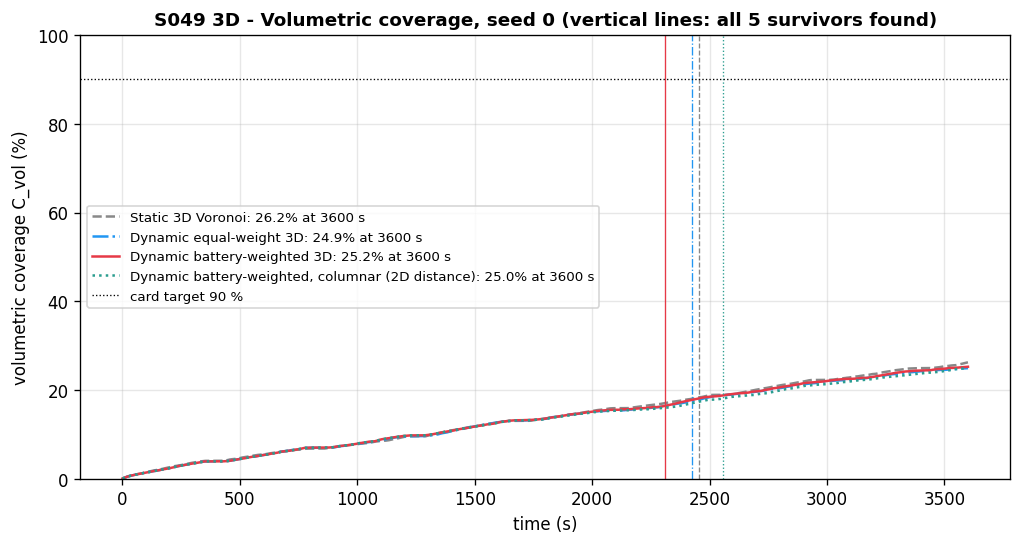
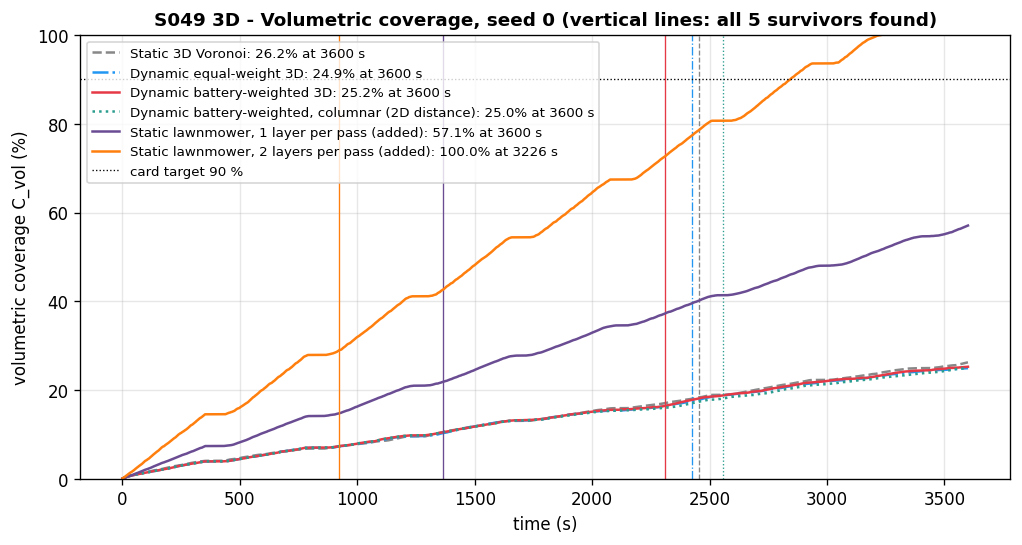
Fix S049 3D Dynamic Zone Assignment: address review follow-ups

diff --git a/src/03_environmental_sar/3d/s049_3d_dynamic_zone.py b/src/03_environmental_sar/3d/s049_3d_dynamic_zone.py
@@ -18,6 +18,10 @@ Strategies (same survivor placements for all):
   weighted        - same with SoC-weighted 3D distance |x - p_k|_3 / SoC_k
   weighted_column - added: SoC-weighted, horizontal distance only (the 2D
                     partition extruded through all layers)
+  lawn / lawn2    - added: static quarters swept by boustrophedon lines 20 m
+                    apart, bottom-up, one pass per layer centre (lawn) or per
+                    layer boundary (lawn2, two layers per pass); separates the
+                    waypoint-rule effect from the vertical schedule
 
 Usage:
     conda activate drones
@@ -70,11 +74,15 @@ PRIOR = [  # alpha, (mu_x, mu_y, mu_z), sigma_xy, sigma_z  (added: card gives on
     (0.1, (200.0, 80.0, 5.0), 30.0, 10.0),
 ]
 HOMES = np.array([[20.0, 20.0, 0.0], [380.0, 20.0, 0.0], [20.0, 380.0, 0.0], [380.0, 380.0, 0.0]])
-STRATEGIES = ['static', 'equal', 'weighted', 'weighted_column']
+STRATEGIES = ['static', 'equal', 'weighted', 'weighted_column', 'lawn', 'lawn2']
+DYNAMIC = ('equal', 'weighted', 'weighted_column')
+LINE_DY = 20.0        # added: lawnmower line spacing (4 voxel rows per line: 20 m swath)
 STYLE = {'static': ('--', '#888888', 'Static 3D Voronoi'),
          'equal': ('-.', '#2196F3', 'Dynamic equal-weight 3D'),
          'weighted': ('-', '#E63946', 'Dynamic battery-weighted 3D'),
-         'weighted_column': (':', '#2a9d8f', 'Dynamic battery-weighted, columnar (2D distance)')}
+         'weighted_column': (':', '#2a9d8f', 'Dynamic battery-weighted, columnar (2D distance)'),
+         'lawn': ('-', '#6a4c93', 'Static lawnmower, 1 layer per pass (added)'),
+         'lawn2': ('-', '#ff7f0e', 'Static lawnmower, 2 layers per pass (added)')}
 DRONE_COLORS = ['#E63946', '#2196F3', '#4CAF50', '#FF9800']
 
 XY = (np.arange(NXY) + 0.5) * DXY
@@ -125,6 +133,7 @@ class Drone:
         self.pack = 0.0; self.soc = 1.0; self.mode = 'search'; self.timer = 0.0
         self.target = None; self.n_swaps = 0; self.dxy = 0.0; self.dz = 0.0
         self.hist = [self.pos.copy()]; self.layer_hist = []
+        self.wps = None; self.wi = 0
 
     @property
     def available(self):
@@ -164,6 +173,32 @@ def choose_target(d, owner, scanned, P):
     return int(cand[np.argmin(dist)])
 
 
+def lawn_waypoints(k, two_layers):
+    """Boustrophedon over drone k's initial quarter, bottom-up passes: lines along x every
+    20 m (y = 10, 30, ... inside the quarter: 4 voxel rows per line). One pass per layer centre
+    (z = 2.5, 7.5, ...) or, with two_layers, one pass per layer boundary (z = 5, 15, ..., 55),
+    where the inclusive |dz| <= r_z rule scans both adjacent layers."""
+    xlo = 0.0 if HOMES[k, 0] < AREA / 2 else AREA / 2
+    ylo = 0.0 if HOMES[k, 1] < AREA / 2 else AREA / 2
+    zs = np.arange(5.0, 60.0, 10.0) if two_layers else ZC
+    ys = ylo + LINE_DY / 2 + np.arange(int(AREA / 2 / LINE_DY)) * LINE_DY
+    wps, fwd = [], True
+    for z in zs:
+        for y in ys:
+            xa, xb = (xlo, xlo + AREA / 2) if fwd else (xlo + AREA / 2, xlo)
+            wps += [(xa, y, z), (xb, y, z)]
+            fwd = not fwd
+    return np.array(wps)
+
+
+def sweep_rate(z, y=10.0, length=200.0):
+    """Voxels scanned per metre of a straight line at altitude z (the actual scan rule)."""
+    got = set()
+    for x in np.arange(0.0, length + 1e-9, 0.5):
+        got.update(scan_voxels(np.array([x, y, z])).tolist())
+    return len(got) / length
+
+
 def run_simulation(strategy='weighted', seed=SHOW_SEED, record=True, stop_when_found=True):
     P = build_prior()
     rng = np.random.default_rng(seed)
@@ -193,8 +228,12 @@ def run_simulation(strategy='weighted', seed=SHOW_SEED, record=True, stop_when_f
 
     owner = do_partition(drones, weighted=False)
     n_differs_column = []
+    lawn = strategy in ('lawn', 'lawn2')
     for d in drones:
-        d.target = choose_target(d, owner, scanned, P)
+        if lawn:
+            d.wps = lawn_waypoints(d.k, strategy == 'lawn2'); d.target = 0
+        else:
+            d.target = choose_target(d, owner, scanned, P)
     events_log, reparts, snaps = [], [], [(0.0, owner.copy(), scanned.copy())]
     t_log, cov_log, fair_log, frames = [], [], [], []
     t, step = 0.0, 0
@@ -205,13 +244,22 @@ def run_simulation(strategy='weighted', seed=SHOW_SEED, record=True, stop_when_f
         for d in drones:
             if d.mode == 'search':
                 if d.soc < SOC_THRESH:
+                    if lawn:   # resume the interrupted line where it was left
+                        d.wps = np.insert(d.wps, d.wi, d.pos.copy(), axis=0)
                     d.mode = 'return'; d.target = None; events.append(('battery', d.k))
+                elif lawn:
+                    if d.wi >= len(d.wps):
+                        d.mode = 'idle'; events.append(('zone_done', d.k))
                 elif d.target is None or scanned[d.target]:
                     d.target = choose_target(d, owner, scanned, P)
                     if d.target is None:
                         d.mode = 'idle'; events.append(('zone_done', d.k))
                 if d.mode == 'search':
-                    d.fly_to(VOX[d.target])
+                    if lawn:
+                        if d.fly_to(d.wps[d.wi]) <= 1e-9:
+                            d.wi += 1
+                    else:
+                        d.fly_to(VOX[d.target])
                     scanned[scan_voxels(d.pos)] = True
                     for i, s in enumerate(surv):
                         if (det_t[i] is None and np.linalg.norm(d.pos[:2] - s[:2]) <= R_S
@@ -233,12 +281,16 @@ def run_simulation(strategy='weighted', seed=SHOW_SEED, record=True, stop_when_f
                     events.append(('swap_done', d.k))
             assert d.pos[2] >= -1e-9, 'below ground'
             d.hist.append(d.pos.copy())
-            d.layer_hist.append(VOX_K[d.target] if (d.mode == 'search' and d.target is not None) else -1)
+            if lawn:
+                d.layer_hist.append(int(min(d.wps[min(d.wi, len(d.wps) - 1), 2] // DZ, NZ - 1))
+                                    if d.mode == 'search' else -1)
+            else:
+                d.layer_hist.append(VOX_K[d.target] if (d.mode == 'search' and d.target is not None) else -1)
         t += DT; step += 1
         owner[scanned] = -1
         for e in events:
             events_log.append((t, *e))
-        if strategy != 'static' and events and not scanned.all() and any(d.available for d in drones):
+        if strategy in DYNAMIC and events and not scanned.all() and any(d.available for d in drones):
             jb = fairness()
             avail = [d for d in drones if d.available]
             owner = do_partition(avail, weighted=(strategy != 'equal'))
@@ -393,12 +445,13 @@ def plot_layer_gantt(R):
 
 def plot_detection(R, mc):
     fig, axes = plt.subplots(1, 2, figsize=(14, 4.8))
-    x = np.arange(N_SURV); w = 0.2
+    x = np.arange(N_SURV); w = 0.8 / len(STRATEGIES)
     for i, s in enumerate(STRATEGIES):
         r = R[(s, SHOW_SEED)]; ls, c, lab = STYLE[s]
         dt = [v if v is not None else 0 for v in r['det_t']]
-        b = axes[0].bar(x + (i - 1.5) * w, dt, w, color=c, label=lab)
-        for xi, v in zip(x + (i - 1.5) * w, r['det_t']):
+        off = (i - (len(STRATEGIES) - 1) / 2) * w
+        b = axes[0].bar(x + off, dt, w, color=c, label=lab)
+        for xi, v in zip(x + off, r['det_t']):
             if v is None:
                 axes[0].text(xi, 30, 'not found', rotation=90, fontsize=6, ha='center')
     axes[0].set_xticks(x)
@@ -471,10 +524,16 @@ def report(R):
     pz = np.array([P[VOX_K == k].sum() for k in range(NZ)])
     print('\nPrior mass per layer (z = 2.5 ... 57.5 m): ' + ', '.join(f'{100*v:.1f}%' for v in pz))
     one_layer = AREA * AREA / (2 * R_S)
-    print(f'Card-arithmetic check: one layer needs ~{one_layer:.0f} m of sweep at a {2*R_S:.0f} m swath, '
-          f'all {NZ} layers {NZ*one_layer/1000:.0f} km; 4 drones x {SPEED} m/s x {T_MAX:.0f} s = '
-          f'{K_DRONES*SPEED*T_MAX/1000:.1f} km of horizontal flight at most -> C_vol <= '
-          f'{100*K_DRONES*SPEED*T_MAX/(NZ*one_layer):.0f}% (before swaps and climbs)')
+    cap = K_DRONES * SPEED * T_MAX
+    r1, r2 = sweep_rate(Z0), sweep_rate(Z0 + DZ / 2)
+    print(f'Coverage bound from the actual scan rule (straight 200 m line between voxel rows, y = 10 m): '
+          f'{r1:.2f} voxels/m at a layer centre (z = {Z0}), {r2:.2f} voxels/m at a layer boundary '
+          f'(z = {Z0 + DZ/2:.0f}: |dz| <= {R_Z} reaches two layers)')
+    print(f'  flight capacity 4 x {SPEED} m/s x {T_MAX:.0f} s = {cap/1000:.1f} km -> best-case voxels '
+          f'{cap*r1:.0f} (1 layer/pass, C_vol <= {min(100, 100*cap*r1/N_VOX):.0f}%) or {cap*r2:.0f} '
+          f'(2 layers/pass, C_vol <= {min(100, 100*cap*r2/N_VOX):.0f}%) of {N_VOX}; '
+          f'the card arithmetic with a 16 m swath, one layer at a time, gives {100*cap/(NZ*one_layer):.0f}% '
+          f'(swaps, transits and climbs not deducted in any of these)')
     mc = {s: {} for s in STRATEGIES}
     for s in STRATEGIES:
         rs = [R[(s, sd)] for sd in range(N_MC)]
@@ -509,7 +568,8 @@ def report(R):
         worse = np.sum((fa < fb) | ((fa == fb) & (ta > tb)))
         return f'{better}/{worse}/{N_MC - better - worse}'
     print('  per placement better/worse/tie (more survivors found, then earlier last detection):')
-    for a, b in (('equal', 'static'), ('weighted', 'static'), ('weighted', 'equal'),
+    for a, b in (('lawn', 'static'), ('lawn2', 'static'), ('lawn2', 'lawn'),
+                 ('equal', 'static'), ('weighted', 'static'), ('weighted', 'equal'),
                  ('weighted', 'weighted_column')):
         print(f'    {a} vs {b}: {h2h(a, b)}')
     dc = [x for sd in range(N_MC) for x in R[('weighted', sd)]['differs_column']]
@@ -525,7 +585,8 @@ def report(R):
         dts = ', '.join('-' if v is None else f'{v:.1f}' for v in r['det_t'])
         print(f'  {STYLE[s][2]:48s}: detections [{dts}] s | C_vol at {r["t_end"]:.0f} s {100*r["coverage"]:.1f}% | '
               f'reparts {len(r["reparts"])} | swaps {r["n_swaps"]} | d_xy {sum(r["dxy"]):.0f} m, d_z {sum(r["dz"]):.0f} m | '
-              f'mean J_vol {np.nanmean(r["fair_log"]):.3f}')
+              f'mean J_vol {np.nanmean(r["fair_log"]):.3f} | scanned voxel area per metre flown '
+              f'{r["coverage"] * N_VOX * DXY * DXY / sum(r["dxy"]):.2f} m')
         if s == 'weighted' and r['reparts']:
             rp = r['reparts'][0]
             print(f'    first re-partition t = {rp[0]:.1f} s: J {rp[1]:.3f} -> {rp[2]:.3f}, SoC {rp[3]}, z {rp[4]}')

diff --git a/outputs/03_environmental_sar/3d/s049_3d_dynamic_zone/README.md b/outputs/03_environmental_sar/3d/s049_3d_dynamic_zone/README.md
@@ -7,7 +7,7 @@
 
 ## Problem Definition
 
-**Setup**: Four drones search a 400 × 400 × 60 m rubble volume, discretised into 80 × 80 × 12 voxels of 5 m (layer centres z = 2.5 … 57.5 m, 76 800 voxels), for 5 survivors placed at voxel centres sampled from a 3D Gaussian-mixture prior concentrated near the ground. A voxel is scanned — and a survivor detected — when the drone is within 8 m horizontally and 2.5 m vertically. Each drone sweeps its zone **bottom-up, layer by layer**, using the 2D-folder rule inside the current layer (fly to the nearest of the 20 highest-prior unscanned voxels). The battery and mission rules are the 2D ones: SoC $= 1 - (d_{xy} + \gamma d_z)/D_{max}$ per pack; below 30 % the drone flies home (corner pad, ground level), swaps the pack (60 s) and rejoins; a drone that finds a survivor hovers 10 s to confirm and rejoins.
+**Setup**: Four drones search a 400 × 400 × 60 m rubble volume, discretised into 80 × 80 × 12 voxels of 5 m (layer centres z = 2.5 … 57.5 m, 76 800 voxels), for 5 survivors placed at voxel centres sampled from a 3D Gaussian-mixture prior concentrated near the ground. A voxel is scanned — and a survivor detected — when the drone is within 8 m horizontally and 2.5 m vertically. In the card's strategies each drone sweeps its zone **bottom-up, layer by layer**, using the 2D-folder rule inside the current layer (fly to the nearest of the 20 highest-prior unscanned voxels). The battery and mission rules are the 2D ones: SoC $= 1 - (d_{xy} + \gamma d_z)/D_{max}$ per pack; below 30 % the drone flies home (corner pad, ground level), swaps the pack (60 s) and rejoins; a drone that finds a survivor hovers 10 s to confirm and rejoins.
 
 **Strategies** (same 20 survivor placements for all):
 
@@ -17,8 +17,10 @@
 | Dynamic equal-weight 3D | 3D Voronoi on the current 3D positions at every event |
 | Dynamic battery-weighted 3D | $\arg\min_k \|\mathbf{x} - \mathbf{p}_k\|_3 / \text{SoC}_k$ at every event |
 | Dynamic battery-weighted, columnar (added) | same weights, **horizontal** distance only — the 2D partition extruded through all layers |
+| Static lawnmower, 1 layer per pass (added) | initial quarters; **boustrophedon lines** 20 m apart instead of the greedy waypoint rule; one pass per layer centre (z = 2.5, 7.5, …), bottom-up |
+| Static lawnmower, 2 layers per pass (added) | same, one pass per layer **boundary** (z = 5, 15, …, 55), where the inclusive $|\Delta z| \le r_z$ rule scans the two adjacent layers at once |
 
-Events (as in 2D): a drone leaves (battery, survivor), rejoins (swap or confirmation done) or exhausts its zone.
+Events (as in 2D): a drone leaves (battery, survivor), rejoins (swap or confirmation done) or exhausts its zone. The two lawnmower baselines use the same bottom-up vertical schedule, battery, swap and confirmation rules and the same survivor placements (common random numbers), so they separate the effect of the **waypoint rule** from that of the vertical schedule. An interrupted line is resumed where it was left.
 
 ---
 
@@ -32,7 +34,7 @@ Events (as in 2D): a drone leaves (battery, survivor), rejoins (swap or confirma
 
 **Battery**: SoC $= 1 - (d_{xy} + 2 d_z)/3000$ m per pack; hovering drains like cruising (2D rule). Invariants asserted every step: SoC > 0 and z ≥ 0.
 
-**Coverage**: $C_{vol} = |\mathcal{V}_{scanned}|/76\,800$. **Fairness**: $\mathcal{J}_{vol} = (\sum N_k^{rem})^2 / (K'\sum (N_k^{rem})^2)$ over the available drones.
+**Coverage**: $C_{vol} = |\mathcal{V}_{scanned}|/76\,800$. **Coverage bound** (computed in the script from the actual scan rule): a straight line between two voxel rows marks 4 rows (a 20 m swath, cell centres 2.5 and 7.5 m from the line), i.e. 0.83 voxels per metre at a layer centre and 1.66 voxels per metre at a layer boundary. **Fairness**: $\mathcal{J}_{vol} = (\sum N_k^{rem})^2 / (K'\sum (N_k^{rem})^2)$ over the available drones.
 
 ---
 
@@ -51,18 +53,19 @@ Events (as in 2D): a drone leaves (battery, survivor), rejoins (swap or confirma
 | Battery swap / confirmation hover | 60 s / 10 s | 2D values |
 | TOP_M | 20 | 2D value |
 | Placements | 20 (seeds 0–19); seed 0 is run to 3600 s for the figures, the others stop when all 5 are found | 2D value |
+| Lawnmower line spacing | 20 m (lines at y = 10, 30, … m inside each quarter) | added |
 | Animation | 150 frames (every 24 s), 8 fps | |
 
 ### Deviations from the scenario card
 
 | Card | Implementation | Reason |
 |------|----------------|--------|
-| $C_{vol}$ must reach ≥ 90 % within the mission | reaches ≈ 25 %; the card now states the bound | arithmetic: a 5 m layer needs ≈ 10 000 m of sweep at a 16 m swath, 12 layers ≈ 120 km; 4 drones × 6 m/s × 3600 s = 86.4 km of flight at most, so $C_{vol} \le 72$ % even without battery swaps and climbs |
+| $C_{vol}$ must reach ≥ 90 % within the mission | the greedy strategies reach ≈ 25 %, a lawnmower flying at layer boundaries reaches 100 % (seed 0, at 3226 s) | the 90 % target is feasible; the greedy waypoint rule, not the volume, is the limit. An earlier version of this README and of the card called 72 % an upper bound (16 m swath, one layer at a time) — that was wrong for the card's voxel metric: a line between voxel rows marks a 20 m swath, and at a layer boundary it scans two layers, so the flight capacity of 86.4 km allows up to 1.66 × 86 400 = 143 424 voxel scans (> 76 800) |
 | A drone below 30 % SoC or that finds a survivor is removed and its voxels redistributed | it returns home, swaps the pack and rejoins; a finder hovers 10 s and rejoins | the 2D-folder fixes: with permanent retirement the mission is impossible (one pack covers 2 100 m of the ≈ 120 km needed), and with 5 survivors and 4 drones nobody would be left for the last survivor |
 | Re-partition only when a drone leaves | also when a drone rejoins or exhausts its zone | 2D rule: otherwise a returning drone has no zone |
 | Starting area "at the edge" | one pad per drone at the four corners | 2D layout |
 | Prior hotspots and spreads given as ranges | fixed components (table above) | reproducibility |
-| Layer snapshots for every strategy | battery-weighted strategy only | the four strategies' zones look alike (see results); the others are summarised numerically |
+| Layer snapshots for every strategy | battery-weighted strategy only | the dynamic greedy strategies' zones look alike and the lawnmowers keep fixed quarters; the others are summarised numerically |
 | Gantt chart "one row per drone" | layer-vs-time step plot per drone | same information, readable with 12 layers |
 | — | columnar (2D-distance) variant added | to test whether the 3D Voronoi differs from the 2D one |
 | Output path `outputs/03_environmental_sar/s049_3d_dynamic_zone/` | `outputs/03_environmental_sar/3d/s049_3d_dynamic_zone/` | 3D variants live under `3d/` |
@@ -80,7 +83,7 @@ conda activate drones
 python src/03_environmental_sar/3d/s049_3d_dynamic_zone.py
 ```
 
-Runtime ≈ 170 s (80 runs in 10 worker processes; every run seeds its own generator). Two runs printed byte-identical output and produced identical files.
+Runtime ≈ 125 s (120 runs in 10 worker processes; every run seeds its own generator). Two runs printed byte-identical output and produced identical files.
 
 ---
 
@@ -88,39 +91,48 @@ Runtime ≈ 170 s (80 runs in 10 worker processes; every run seeds its own gener
 
 Prior mass per layer (z = 2.5 … 57.5 m): 39.0 %, 29.6 %, 15.1 %, 7.4 %, 4.0 %, 2.3 %, 1.3 %, 0.7 %, 0.4 %, 0.2 %, 0.1 %, 0.0 %. Over the 20 placements the 100 survivors lie at z = 2.5 m (46), 7.5 (21), 12.5 (16), 17.5 (7), 22.5 (5), 27.5 (2), 32.5 (1), 37.5 m (2).
 
-### Monte Carlo, 20 survivor placements
+**Coverage bound from the scan rule** (printed): 0.83 voxels/m on a straight line at a layer centre, 1.66 voxels/m at a layer boundary. With 4 × 6 m/s × 3600 s = 86.4 km of flight this allows 71 712 voxel scans (C_vol ≤ 93 %, one layer per pass) or 143 424 (C_vol ≤ 100 %, two layers per pass) of 76 800, before swaps, transits and climbs. The card's arithmetic (16 m swath, one layer at a time) gives 72 %.
+
+### Monte Carlo, 20 survivor placements (same placements for every strategy)
 
 | Strategy | Survivors found (mean) | All 5 found | Time to all 5 (when found): mean / median | Mean detection time of found survivors | Re-partitions | Battery swaps |
 |---|---|---|---|---|---|---|
-| Static 3D Voronoi | **4.25** | 7/20 | 2306.2 / 2617.0 s | 1002.4 s | 0 | 28.40 |
+| Static 3D Voronoi | 4.25 | 7/20 | 2306.2 / 2617.0 s | 1002.4 s | 0 | 28.40 |
 | Dynamic equal-weight 3D | 4.15 | 7/20 | 2397.0 / 2615.0 s | 960.3 s | 56.3 | 27.80 |
 | Dynamic battery-weighted 3D | 4.15 | 7/20 | 2367.4 / 2443.5 s | 931.1 s | 56.4 | 27.95 |
 | Battery-weighted, columnar | 4.15 | 7/20 | 2278.3 / 2558.5 s | 922.8 s | 55.9 | 27.70 |
+| Static lawnmower, 1 layer per pass | 4.90 | 18/20 | 1836.1 / 1634.2 s | 822.9 s | 0 | 17.65 |
+| Static lawnmower, 2 layers per pass | **5.00** | **20/20** | **1034.5 / 922.0 s** | **480.0 s** | 0 | 8.80 |
 
-Detection rate by survivor layer (all four strategies): 100 % at z = 2.5, 7.5 and 12.5 m; at z = 17.5 m 29 % (static) and 0 % (dynamic); 0 % at z ≥ 22.5 m.
+(Swaps are counted until the run stops; the lawnmower runs stop earlier because they find all five survivors sooner.)
 
-Per placement (better / worse / tie, by survivors found, then by time of the last detection): equal vs static 4/5/11, weighted vs static 5/4/11, weighted vs equal 6/1/13, weighted vs columnar 3/3/14.
+Detection rate by survivor layer: the four greedy strategies find 100 % at z = 2.5, 7.5 and 12.5 m, at z = 17.5 m 29 % (static) or 0 % (dynamic), and 0 % at z ≥ 22.5 m. The 1-layer lawnmower finds 100 % up to z = 32.5 m and 0 % at 37.5 m (2 survivors); the 2-layer lawnmower finds 100 % at every height.
+
+Per placement (better / worse / tie, by survivors found, then by time of the last detection): 1-layer lawnmower vs static greedy 18/0/2, 2-layer lawnmower vs static greedy 20/0/0, 2-layer vs 1-layer lawnmower 20/0/0, equal vs static 4/5/11, weighted vs static 5/4/11, weighted vs equal 6/1/13, weighted vs columnar 3/3/14.
 
 ### Showcase placement (seed 0, run to 3600 s)
 
 Survivors at (317.5, 302.5, 7.5), (282.5, 137.5, 2.5), (72.5, 297.5, 2.5), (42.5, 182.5, 2.5), (332.5, 322.5, 12.5) m.
 
-| Strategy | Detection times S1–S5 | $C_{vol}$ at 3600 s | Re-partitions | Swaps | Horizontal / vertical distance | Mean $\mathcal{J}_{vol}$ |
+| Strategy | Detection times S1–S5 | $C_{vol}$ at end | Swaps | Horizontal / vertical distance | Scanned voxel area per metre flown | Mean $\mathcal{J}_{vol}$ |
 |---|---|---|---|---|---|---|
-| Static | 1327.5, 24.5, 29.5, 468.5, 2457.0 s | 26.2 % | 0 | 32 | 74 396 / 605 m | 1.000 |
-| Equal-weight | 1417.5, 24.5, 29.5, 1043.0, 2426.5 s | 24.9 % | 67 | 31 | 74 634 / 588 m | 0.883 |
-| Battery-weighted | 1445.5, 24.5, 29.5, 1047.5, **2312.0** s | 25.2 % | 68 | 31 | 74 466 / 662 m | 0.885 |
-| Columnar | 1445.5, 24.5, 29.5, 1047.5, 2558.5 s | 25.0 % | 68 | 31 | 74 561 / 692 m | 0.888 |
+| Static | 1327.5, 24.5, 29.5, 468.5, 2457.0 s | 26.2 % (3600 s) | 32 | 74 396 / 605 m | 6.77 m | 1.000 |
+| Equal-weight | 1417.5, 24.5, 29.5, 1043.0, 2426.5 s | 24.9 % | 31 | 74 634 / 588 m | 6.41 m | 0.883 |
+| Battery-weighted | 1445.5, 24.5, 29.5, 1047.5, 2312.0 s | 25.2 % | 31 | 74 466 / 662 m | 6.51 m | 0.885 |
+| Columnar | 1445.5, 24.5, 29.5, 1047.5, 2558.5 s | 25.0 % | 31 | 74 561 / 692 m | 6.44 m | 0.888 |
+| Lawnmower, 1 layer per pass | 728.0, 266.0, 189.0, 487.5, 1363.0 s | 57.1 % (3600 s) | 32 | 73 696 / 1 305 m | 14.87 m | 1.000 |
+| Lawnmower, 2 layers per pass | 240.0, 266.0, 189.0, 488.5, 923.0 s | **100.0 % (3226 s)** | 28 | 64 891 / 2 000 m | 29.59 m | 0.978 |
 
-The first re-partition (battery-weighted) happens at 24.5 s when drone 2 finds S2; the three remaining drones are all at SoC 0.949 and z = 2.5 m, and $\mathcal{J}_{vol}$ goes from 1.000 to 0.997.
+The dynamic strategies re-partition 67–68 times on this placement. The first re-partition (battery-weighted) happens at 24.5 s when drone 2 finds S2; the three remaining drones are all at SoC 0.949 and z = 2.5 m, and $\mathcal{J}_{vol}$ goes from 1.000 to 0.997.
 
 **Key findings**
 
-- **The 3D partition is, in practice, the 2D partition.** Because all drones sweep bottom-up, they sit in the same one or two layers when a re-partition happens (generator altitudes: median 7.5 m, range 0.0–30.5 m). The battery-weighted 3D Voronoi assigns only **0.2 %** of the voxels differently from the columnar (2D-distance) partition of the same generators (max 3.1 %, over 1 127 re-partitions), and the two strategies tie on 14 of 20 placements (3 better / 3 worse). The "3D polyhedra" of the card exist only in the rare re-partitions with drones at different heights.
-- **The vertical dimension dominates the outcome, through the schedule, not the partition.** In one hour the team sweeps only about three layers (C_vol ≈ 25 %); every survivor at z ≤ 12.5 m is found, none above 17.5 m is found by a dynamic strategy, and only 7 of 20 placements have all five survivors found. The bottom-up order matches a prior with 84 % of its mass in the lowest three layers, so it finds 4.15–4.25 of 5 survivors on average, but it never reaches the 17 of 100 survivors above 12.5 m except for 2 found by the static strategy.
-- **Re-partitioning does not help measurably** (as in the 2D-folder S049): the dynamic strategies find slightly fewer survivors than the static one (4.15 vs 4.25: the static strategy found 2 of the 7 survivors at 17.5 m, the dynamic ones none) and per placement they are mostly tied with it (11 ties of 20). Battery weighting beats equal weights on 6 placements and loses on 1 — all drones fly at the same energy rate, so the SoC weights are nearly equal.
-- **The vertical energy penalty is small here.** Vertical flight is 605–692 m against ≈ 74 400 m horizontal per showcase run, i.e. under 2 % of the battery use even with γ = 2.
-- **Load balance**: static keeps $\mathcal{J}_{vol}$ = 1.000 (equal quarters swept at equal rates); re-partitioning around current positions lowers it to 0.883–0.888, because Voronoi cells around arbitrary positions are not equal in size.
+- **The waypoint rule, not the vertical dimension, limits the greedy strategies.** The 2D-folder rule (fly to the nearest of the 20 highest-prior unscanned voxels) scans only 6.4–6.8 m² of voxel area per metre flown, against 14.87 m for a lawnmower that scans one layer per pass and 29.59 m for one that flies at layer boundaries (two layers per pass). With the same bottom-up order, battery and survivor placements, the 1-layer lawnmower finds all five survivors in 18 of 20 placements and the 2-layer one in 20 of 20, against 7 of 20 for every greedy strategy; it beats the static greedy strategy on every placement. The greedy rule's early detections of low, high-prior survivors (S2, S3 at 24.5 / 29.5 s on seed 0, vs 189–266 s for the lawnmowers) do not compensate for its inefficient coverage.
+- **"No survivor above 17.5 m is found" is a property of the greedy sweep, not of the volume.** The greedy strategies cover only about three layers in an hour (C_vol ≈ 25 %); the lawnmowers find survivors up to 32.5 m (1 layer per pass) or at every height (2 layers per pass). The card's 90 % coverage target is reachable: the 2-layer lawnmower completes the whole volume in 3226 s on seed 0.
+- **The 3D partition is, in practice, the 2D partition.** Because all greedy drones sweep bottom-up, they sit in the same one or two layers when a re-partition happens (generator altitudes: median 7.5 m, range 0.0–30.5 m). The battery-weighted 3D Voronoi assigns only **0.2 %** of the voxels differently from the columnar (2D-distance) partition of the same generators (max 3.1 %, over 1 127 re-partitions), and the two strategies tie on 14 of 20 placements (3 better / 3 worse).
+- **Re-partitioning does not help measurably** (as in the 2D-folder S049): the dynamic greedy strategies find slightly fewer survivors than the static one (4.15 vs 4.25: the static strategy found 2 of the 7 survivors at 17.5 m, the dynamic ones none) and are mostly tied with it per placement (11 ties of 20). Battery weighting beats equal weights on 6 placements and loses on 1 — all drones fly at the same energy rate, so the SoC weights are nearly equal.
+- **The vertical energy penalty is small.** Vertical flight is 588–2 000 m against 64 891–74 634 m horizontal per showcase run, i.e. at most 2 × 2 000 / 64 891 = 6 % of the battery use with γ = 2.
+- **Load balance**: static zones keep $\mathcal{J}_{vol}$ near 1 (1.000 greedy and 1-layer lawnmower; 0.978 for the 2-layer lawnmower, whose quarters finish at different times); re-partitioning around current positions lowers it to 0.883–0.888.
 
 ### Figures
 
@@ -136,7 +148,7 @@ The first re-partition (battery-weighted) happens at 24.5 s when drone 2 finds S
 
 ![Trajectories](./trajectories_3d.png)
 
-**Volumetric coverage vs time**, seed 0, with the card's 90 % target:
+**Volumetric coverage vs time**, seed 0, all six strategies, with the card's 90 % target:
 
 ![Coverage](./coverage_vs_time.png)
 
@@ -144,7 +156,7 @@ The first re-partition (battery-weighted) happens at 24.5 s when drone 2 finds S
 
 ![Layer Gantt](./layer_gantt.png)
 
-**Survivor detection**: detection time per survivor (seed 0) and survivors found over 20 placements:
+**Survivor detection**: detection time per survivor (seed 0) and survivors found over 20 placements, all six strategies:
 
 ![Detection](./detection_timeline.png)
 
@@ -160,9 +172,9 @@ The first re-partition (battery-weighted) happens at 24.5 s when drone 2 finds S
 
 ## Extensions
 
-1. **Prior-marginal layer order** (card Extension 1): sweep layers in order of remaining prior mass per metre of flight instead of strictly bottom-up — the obvious fix for the survivors above 17.5 m.
+1. **Prior-weighted lawnmower**: keep the swath-efficient lines but order passes and quarters by remaining prior mass (card Extension 1), to combine the greedy rule's early low-altitude detections with the lawnmower's coverage.
 2. **Anisotropic weights** $\mathbf{W}_k = \text{diag}(w_k, w_k, w_k/\gamma)$ so that the 3D partition differs from the 2D one when it matters.
-3. **More drones or longer endurance** to reach the card's 90 % target (≥ 5 × the flight capacity).
+3. **Dynamic re-partition of lawnmower lines** when a drone leaves, instead of greedy voxels.
 4. **Terrain / rubble floor** from a DEM.
 
 ---

diff --git a/scenarios/03_environmental_sar/3d/S049_3d_dynamic_zone.md b/scenarios/03_environmental_sar/3d/S049_3d_dynamic_zone.md
@@ -57,10 +57,13 @@ hand-off**.
 
 **Objective**: Minimise total time to detect all survivors in the 3D volume while maintaining
 balanced volumetric load distribution. The **volumetric coverage fraction** $C_{vol}(t)$ must
-reach at least 90% within the mission time budget. (Not achievable with these parameters: one
-5 m layer of 400 × 400 m needs ≈ 10 000 m of sweep at a 16 m swath, all 12 layers ≈ 120 km, while
-4 drones × 6 m/s × 3600 s = 86.4 km of flight at most — an upper bound of 72 % before battery swaps
-and climbs. The implementation reaches ≈ 25 %.)
+reach at least 90% within the mission time budget. (Feasible in principle: with the scan rule
+below, a straight line between voxel rows marks 4 rows (a 20 m swath), i.e. 0.83 voxels/m at a layer
+centre, and at a layer boundary the inclusive $|p_z - s_z| \le r_z$ test reaches two layers, i.e.
+1.66 voxels/m; 4 drones × 6 m/s × 3600 s = 86.4 km of flight therefore allows up to 143 424 voxel
+scans for 76 800 voxels. An earlier note here gave 72 % as an upper bound from a 16 m swath and one
+layer at a time — that was wrong. In the implementation the greedy priority waypoint rule below
+reaches only ≈ 25 %, while a lawnmower flying at layer boundaries covers 100 %.)
 
 **Comparison strategies**:
 1. **Static 3D Voronoi** — initial 3D partition fixed; no reallocation.
